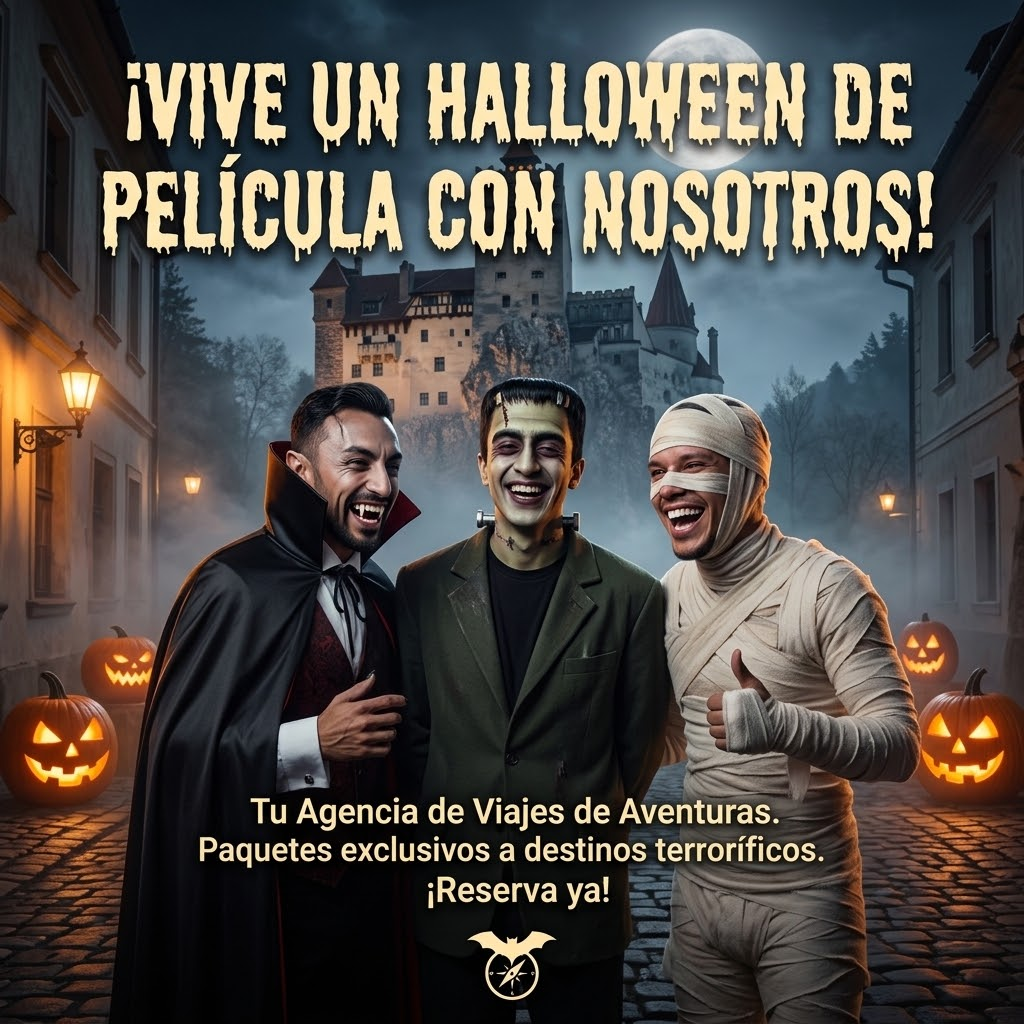
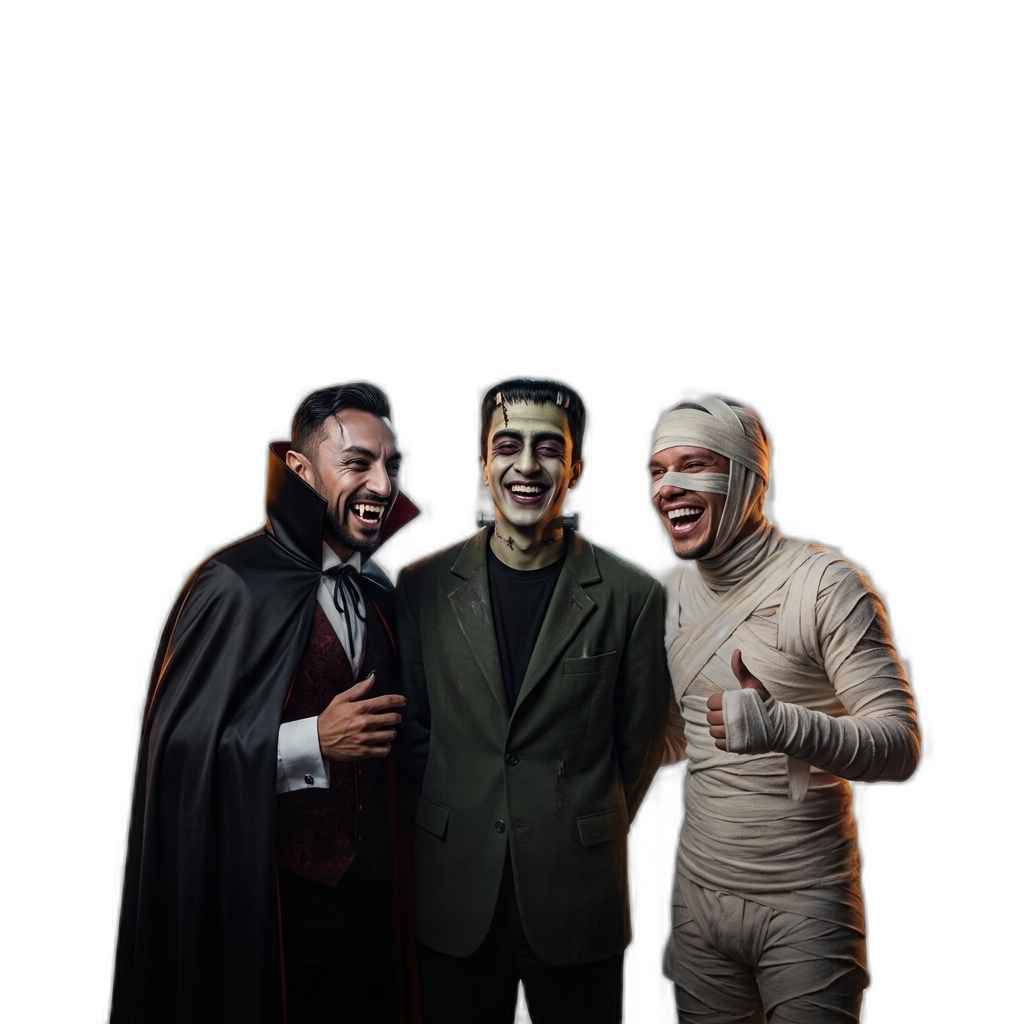
fix(home): usar el recorte real de Halloween con transparencia de verdad
El segundo archivo que compartió el usuario era un JPG con el patrón de
"fondo transparente" pintado como píxeles reales de cuadros grises -- JPG
no soporta canal alfa, así que no había ninguna transparencia real que
usar tal cual (se habría visto el cuadriculado en el sitio). Se le quitó
el fondo con un modelo de segmentación (rembg/u2netp) para obtener un PNG
con canal alfa real.

Con el recorte de verdad ya no hace falta el tratamiento especial de
"póster con marco propio" del commit anterior: Halloween usa exactamente
el mismo tratamiento que la viajera de siempre (máscara de desvanecido,
sombra, badge flotante de "Promo Especial"), solo cambia la imagen y el
alt según el tema activo.

Claude-Session: https://claude.ai/code/session_01QrtnPDJpMbWdNc9cZG3HNW

diff --git a/alecktourfrondend/src/app/components/DestinationsGrid.tsx b/alecktourfrondend/src/app/components/DestinationsGrid.tsx
@@ -81,51 +81,40 @@ export default function DestinationsGrid() {
                         transition={{ duration: 0.8, delay: 0.2 }}
                         className="relative mt-auto flex justify-center lg:justify-center"
                     >
-                        {esHalloween ? (
-                            /* Temporada de Halloween: reemplaza la ilustración
-                               por el póster de temporada (imagen cuadrada con
-                               fondo propio, no un recorte transparente) --
-                               mismo criterio de "un solo elemento decorativo
-                               por sección" del resto del sitio, así que el
-                               badge flotante de promo se retira mientras esta
-                               imagen está activa (ya trae su propio llamado a
-                               la acción) y vuelve solo en temporada normal. */
-                            <div className="relative w-full max-w-sm rounded-3xl overflow-hidden shadow-2xl mx-auto lg:mx-0">
-                                <img
-                                    src="/img/imagenpromocional-halloween.png"
-                                    alt="Personajes de Halloween de AleckTours"
-                                    className="w-full h-full object-cover"
-                                />
+                        {/* Brillo decorativo de fondo */}
+                        <div className="absolute bottom-10 w-64 h-64 bg-[var(--chart-2)]/15 rounded-full blur-3xl -z-10" />
+
+                        {/* Recorte con transparencia real -- en temporada de
+                            Halloween es el trío de personajes que compartió
+                            el usuario (se le quitó el fondo con un modelo de
+                            segmentación porque el archivo que llegó era un
+                            JPG con el patrón de cuadros pintado como
+                            píxeles, no transparencia de verdad). Mismo
+                            tratamiento que la viajera de siempre: ambos son
+                            recortes reales, así que comparten máscara,
+                            sombra y el badge flotante sin ningún caso
+                            especial. */}
+                        <img
+                            src={esHalloween ? "/img/imagenpromocional-halloween.png" : "/img/imagenpromocional-removebg-preview.png"}
+                            alt={esHalloween ? "Personajes de Halloween de AleckTours" : "Viajera promocional"}
+                            className="w-full h-full object-contain object-bottom drop-shadow-2xl [mask-image:linear-gradient(to_top,transparent_0%,black_15%)]"
+                            style={{ maxHeight: "450px" }}
+                        />
+
+                        {/* Badge Flotante Animado */}
+                        <motion.div
+                            animate={{ y: [0, -12, 0] }}
+                            transition={{ repeat: Infinity, duration: 4, ease: "easeInOut" }}
+                            className="absolute top-10 -right-2 lg:-right-6 bg-card border border-border shadow-xl rounded-2xl p-3.5 flex items-center gap-3 z-20"
+                        >
+                            <div className="bg-primary/10 p-2.5 rounded-full text-primary">
+                                <Sparkles className="w-5 h-5" />
                             </div>
-                        ) : (
-                            <>
-                                {/* Brillo decorativo de fondo */}
-                                <div className="absolute bottom-10 w-64 h-64 bg-[var(--chart-2)]/15 rounded-full blur-3xl -z-10" />
-
-                                {/* IMAGEN DE LA MUJER PROPORCIONADA */}
-                                <img
-                                    src="/img/imagenpromocional-removebg-preview.png"
-                                    alt="Viajera promocional"
-                                    className="w-full h-full object-contain object-bottom drop-shadow-2xl [mask-image:linear-gradient(to_top,transparent_0%,black_15%)]"
-                                    style={{ maxHeight: "450px" }}
-                                />
-
-                                {/* Badge Flotante Animado */}
-                                <motion.div
-                                    animate={{ y: [0, -12, 0] }}
-                                    transition={{ repeat: Infinity, duration: 4, ease: "easeInOut" }}
-                                    className="absolute top-10 -right-2 lg:-right-6 bg-card border border-border shadow-xl rounded-2xl p-3.5 flex items-center gap-3 z-20"
-                                >
-                                    <div className="bg-primary/10 p-2.5 rounded-full text-primary">
-                                        <Sparkles className="w-5 h-5" />
-                                    </div>
-                                    <div>
-                                        <p className="text-[10px] font-bold text-muted-foreground uppercase tracking-wider">Promo Especial</p>
-                                        <p className="text-sm font-bold text-foreground">Hasta 30% OFF</p>
-                                    </div>
-                                </motion.div>
-                            </>
-                        )}
+                            <div>
+                                <p className="text-[10px] font-bold text-muted-foreground uppercase tracking-wider">Promo Especial</p>
+                                <p className="text-sm font-bold text-foreground">Hasta 30% OFF</p>
+                            </div>
+                        </motion.div>
                     </motion.div>
                 </div>
 
